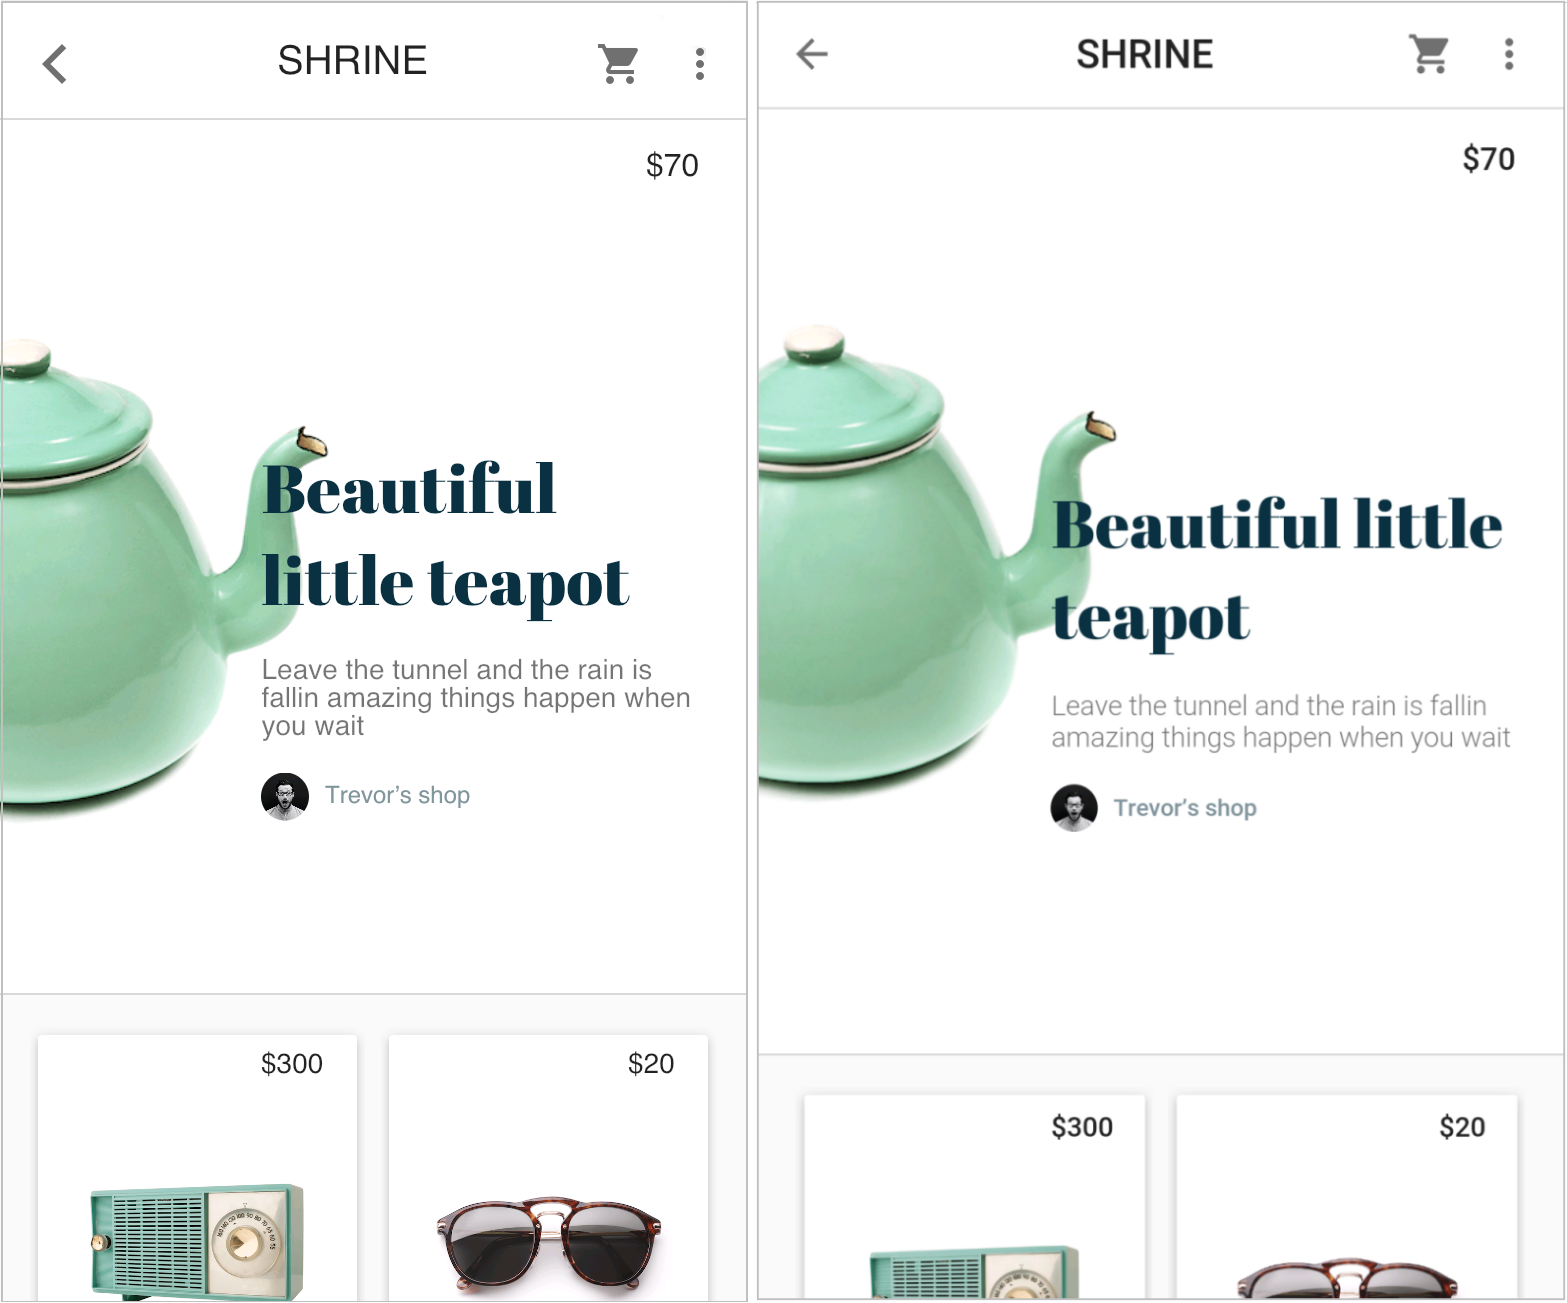
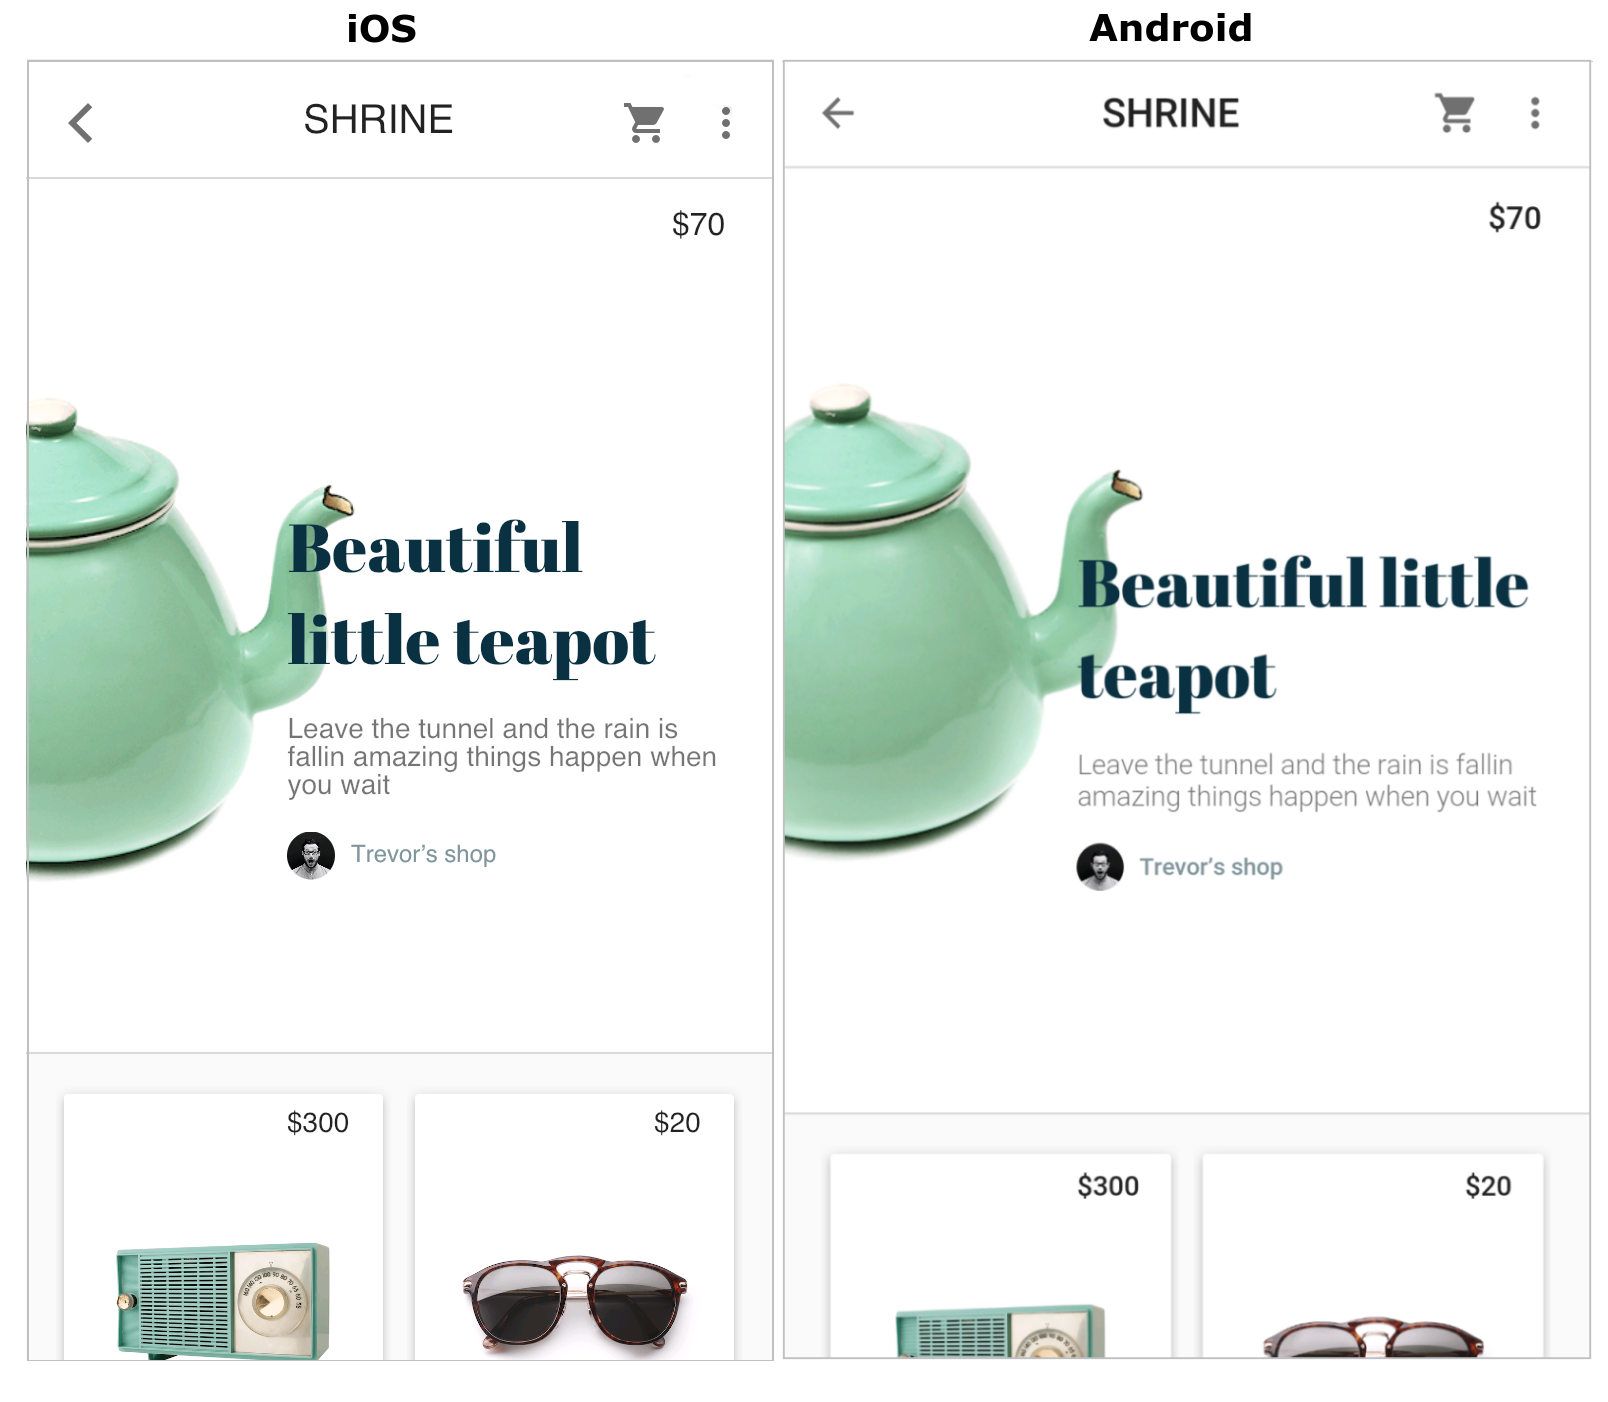
UX testing changes for Setup, What is Flutter? (#425)
* UX testing changes for Setup, What is Flutter?

* changing shrine image to smaller JPG

diff --git a/index.md b/index.md
@@ -4,26 +4,24 @@ sidebar: home_sidebar
 layout: page
 ---
 
-Flutter is a new project to help developers build high-performance, high-fidelity,
-mobile apps for iOS and Android from a single codebase.
-
 {% include note.html content="_Flutter is an early-stage open-source project_. We hope you try Flutter out and send us [feedback](mailto:flutter-dev@googlegroups.com)." %}
 
 ## What is Flutter?
 
-Flutter provides an easy and productive way to build and deploy high-performance
-mobile apps for Android and iOS. The goal is to deliver apps that feel natural
-on different platforms, and we embrace differences in scrolling behaviors,
-typography, icons, and more.
+Flutter is a mobile app SDK for building high-performance, high-fidelity, 
+apps for iOS and Android, from a single codebase.
 
-![Shrine, iOS left and Android right](/images/whatisflutter/shrine_both.png)
+The goal is to enable developers to deliver high-performance apps that feel natural 
+on different platforms. We embrace differences in scrolling behaviors, 
+typography, icons, and more. 
 
-This is an online marketplace app from the [Gallery](https://github.com/flutter/flutter/tree/master/examples/flutter_gallery/lib/demo),
-a showcase of Flutter apps to download and run locally. Shrine has
-high-quality scrolling images, interactive cards, buttons, dropdown lists,
-and a shopping cart page. You can run Shrine on an emulator or a phone, then check
-out the single codebase for this and more examples [here](https://github.com/flutter/flutter/tree/master/examples)
-in our GitHub repository.
+![Shrine, iOS left and Android right](/images/whatisflutter/shrine_both.jpg)
+
+This is a demo app from the [Gallery](https://github.com/flutter/flutter/tree/master/examples/flutter_gallery/lib/demo),
+a collection of Flutter sample apps you can run after installing Flutter and setting
+up your environment. Shrine has high-quality scrolling images, interactive cards, 
+buttons, dropdown lists, and a shopping cart page. To look at the single codebase 
+for this and more examples, [visit our GitHub repository](https://github.com/flutter/flutter/tree/master/examples).
 
 No mobile development experience is required to get started. Apps are written
 in [Dart](https://dartlang.org/), which will look familiar if you've used a
@@ -134,7 +132,7 @@ wish into the lower layers.
 
 You define the unique characteristics of a widget by implementing a
 [build](https://docs.flutter.io/flutter/widgets/StatelessWidget/build.html)
-function that returns a tree of widgets. This tree represents the widget's part
+function that returns a tree (or hierarchy) of widgets. This tree represents the widget's part
 of the user interface in more concrete terms.  For example, a toolbar widget might
 have a build function that returns a [horizontal layout](https://docs.flutter.io/flutter/widgets/Row-class.html)
 of some [text](https://docs.flutter.io/flutter/widgets/Text-class.html) and
@@ -150,7 +148,7 @@ widget previously returned. The framework does the heavily lifting of comparing
 the previous build with the current build and determining what modifications
 need to be made to the user interface.
 
-This automated comparison is surprisingly effective, enabling high-performance,
+This automated comparison is quite effective, enabling high-performance,
 interactive apps. And the design of the build function simplifies your code by
 focusing on declaring what a widget is made of, rather than the complexities of
 updating the user interface from one state to another.
@@ -177,7 +175,7 @@ method again. For an example of managing state, see the [MyApp template](https:/
 Having separate state and widget objects lets other widgets treat stateless and
 stateful widgets in the same way, without being concerned about losing state.
 Rather than needing to hold on to a child to preserve its state, the parent is
-free to create a new instances of the child without losing the child's persistent
+free to create a new instance of the child without losing the child's persistent
 state. The framework does all the work of finding and reusing existing state
 objects when appropriate.
 

diff --git a/setup.md b/setup.md
@@ -14,27 +14,27 @@ The remaining tasks can be deferred until later in the development cycle, when y
 to test and iterate using a simulator or physical device.
 
 <table>
- <tr><th></th><th>Task</th><th>Required?</th></tr>
+ <tr><th>Task</th><th>Required?</th></tr>
  <tr>
-  <td align="center">&#10004;</td><td><a href="#system-requirements">Verify your system meets the requirements for Flutter and dependencies</a></td><td align="center">Y</td>
+  <td style="width:1600px;"><a href="#system-requirements">Verify your system meets the requirements for Flutter and dependencies</a></td><td align="center">Y</td>
  </tr>
  <tr>
-  <td align="center">&#10004;</td><td><a href="#get-the-flutter-sdk">Clone the Flutter repo</a></td><td align="center">Y</td>
+  <td><a href="#get-the-flutter-sdk">Clone the Flutter repo</a></td><td align="center">Y</td>
  </tr>
  <tr>
-  <td align="center">&#10004;</td><td><a href="#get-the-flutter-sdk">Update your path</a></td><td align="center">Y</td>
+  <td><a href="#get-the-flutter-sdk">Update your path</a></td><td align="center">Y</td>
  </tr>
  <tr>
-   <td align="center">&#10004;</td><td><a href="#get-the-flutter-sdk">Run <code>flutter doctor</code> and resolve any issues found</a></td><td align="center">Y</td>
+   <td><a href="#get-the-flutter-sdk">Run <code>flutter doctor</code> and resolve any issues found</a></td><td align="center">Y</td>
  </tr>
  <tr>
-   <td align="center">&#10004;</td><td><a href="#editor-setup">Install and configure an IntelliJ IDE to develop Flutter apps</a></td><td align="center"></td>
+   <td><a href="#editor-setup">Install and configure an IntelliJ IDE to develop Flutter apps</a></td><td align="center"></td>
  </tr>
  <tr>
-   <td align="center">&#10004;</td><td><a href="#ios-setup">Perform iOS setup tasks to develop apps for iOS</a></td><td align="center"></td>
+   <td><a href="#ios-setup">Perform iOS setup tasks to develop apps for iOS</a></td><td align="center"></td>
  </tr>
  <tr>
-   <td align="center">&#10004;</td><td><a href="#android-setup">Perform Android setup tasks to develop apps for Android</a></td><td align="center"></td>
+   <td><a href="#android-setup">Perform Android setup tasks to develop apps for Android</a></td><td align="center"></td>
  </tr>
 </table>
 
